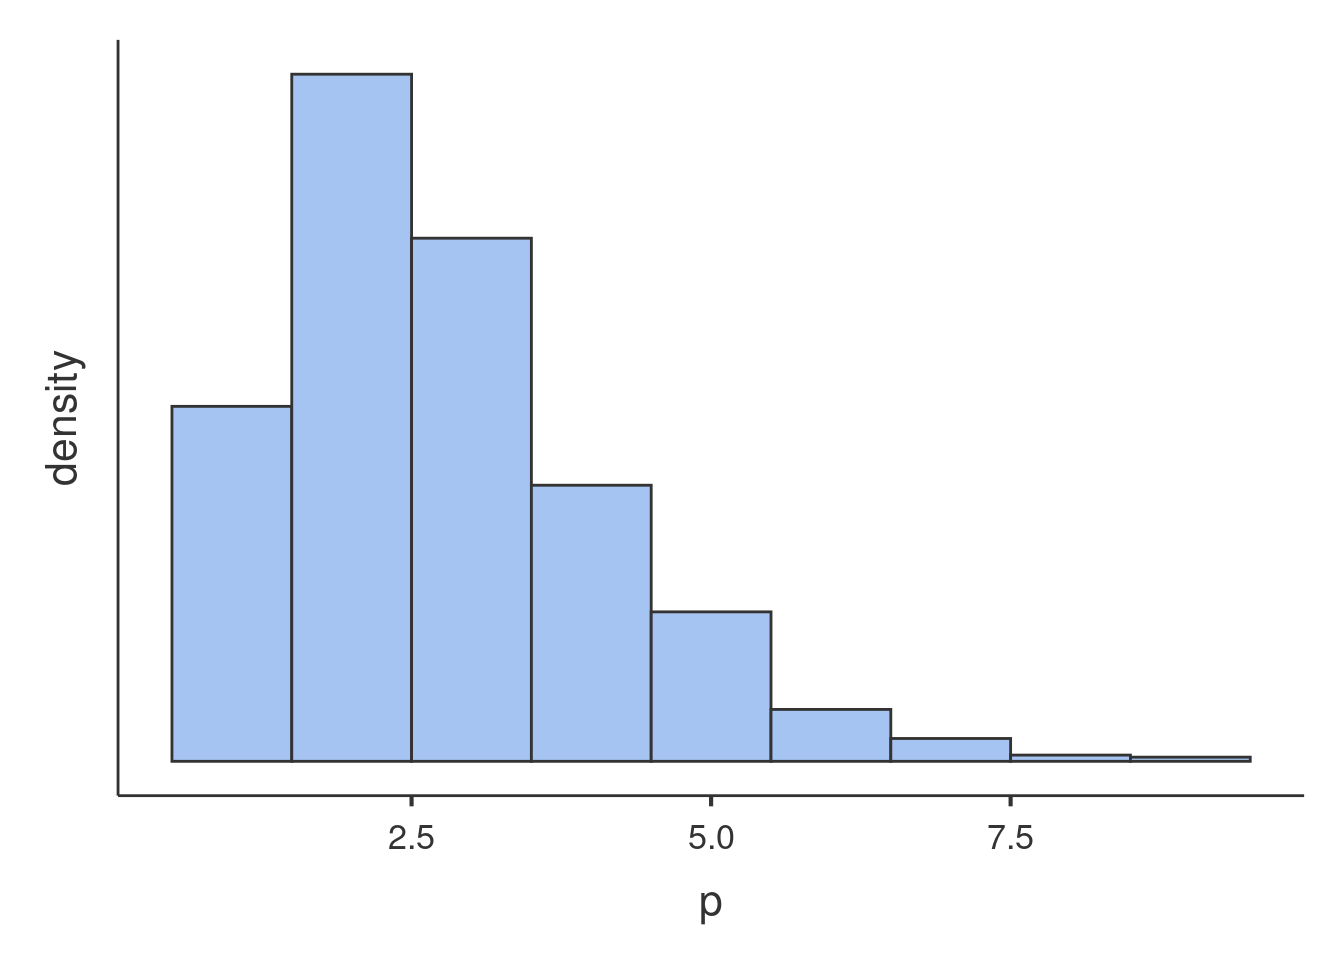
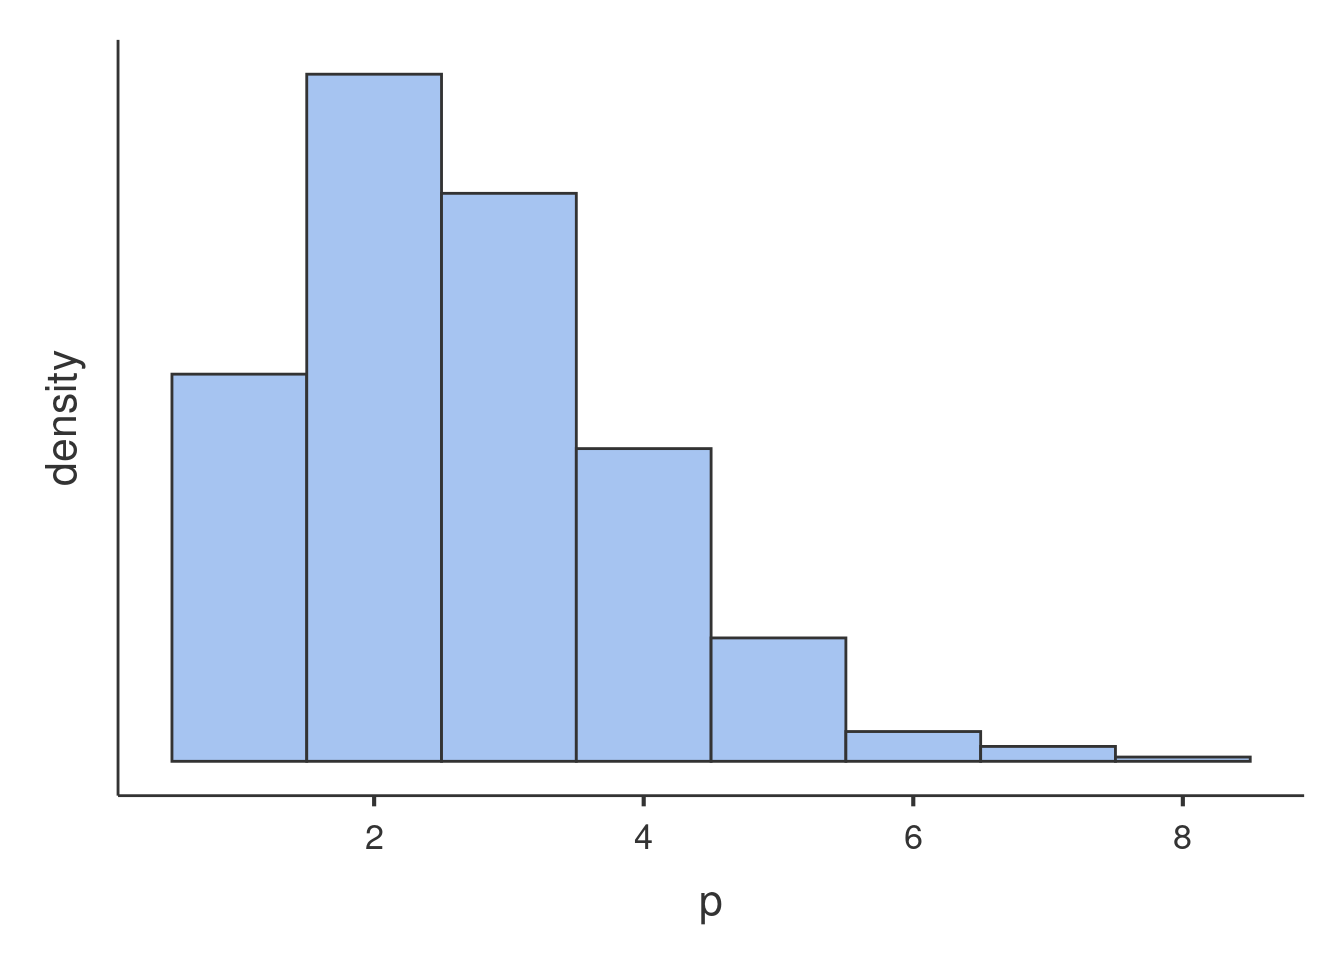
updates

diff --git a/docs/glmmixed_example2.html b/docs/glmmixed_example2.html
@@ -390,7 +390,7 @@ div.tocify {
 <p><img src="glmmixed_example2_files/figure-html/unnamed-chunk-2-1.png" width="672" /></p>
 <p>Glancing at the histogram makes it clear that the distribution is not normal, but it roughly resembles the Poisson distribution. Here is an example of Poisson distribution with equivalent mean.</p>
 <p><img src="glmmixed_example2_files/figure-html/unnamed-chunk-3-1.png" width="672" /></p>
-<p>We can see that the shape of our distribution is not qualitatively very different as compared with a theoretical Poisson distribution, so a Generalized Linear Model with Poisson distribition may work. However, we can check wheather our distribution is in line with the features of the Poisson dist by checking its mean and variance. The Poisson distribution has variance equal to the mean, in fact the simulated distribution in the histogram has <span class="math inline">\(\bar{x}=1.75\)</span> and <span class="math inline">\(s^2=1.923\)</span>. The <code>art</code> variable distribution has <span class="math inline">\(\bar{x}=1.693\)</span> and <span class="math inline">\(s^2=3.71\)</span>, with a ratio variance/mean of 2.191, which does not really qualify for Poisson dist. This looks like a case of <strong>overdispersion</strong>, <a href="http://bbolker.github.io/mixedmodels-misc/glmmFAQ.html#overdispersion">cf. here for details</a>. We will than consider a Negative Binomial model to account for possible overdispersion.</p>
+<p>We can see that the shape of our distribution is not qualitatively very different as compared with a theoretical Poisson distribution, so a Generalized Linear Model with Poisson distribition may work. However, we can check wheather our distribution is in line with the features of the Poisson dist by checking its mean and variance. The Poisson distribution has variance equal to the mean, in fact the simulated distribution in the histogram has <span class="math inline">\(\bar{x}=1.656\)</span> and <span class="math inline">\(s^2=1.601\)</span>. The <code>art</code> variable distribution has <span class="math inline">\(\bar{x}=1.693\)</span> and <span class="math inline">\(s^2=3.71\)</span>, with a ratio variance/mean of 2.191, which does not really qualify for Poisson dist. This looks like a case of <strong>overdispersion</strong>, <a href="http://bbolker.github.io/mixedmodels-misc/glmmFAQ.html#overdispersion">cf. here for details</a>. We will than consider a Negative Binomial model to account for possible overdispersion.</p>
 <p>An example of Negative Binomial distribution with equivalent mean and variance is here.</p>
 <p><img src="glmmixed_example2_files/figure-html/unnamed-chunk-4-1.png" width="672" /></p>
 <p>The second issue one needs to deal with is the structure of the data. We have seen that the students are not a random sample of students drawn independently one each other, but they are grouped by the program they are enrolled in. There are 83 programs, in each program there are on average 11 students. Because students in the same program may be more similar one each other than across programs, <code>programs</code> may cluster the scores of the dependent variable and create dependency in the data. To take dependency into the account, we will use a random intercepts model estimated with a Generalized Mixed Model.</p>

diff --git a/docs/gzlmmixed.html b/docs/gzlmmixed.html
@@ -507,7 +507,7 @@ div.tocify {
 <div id="options" class="section level1">
 <h1>Options</h1>
 <p><img src="gzlmmixed/options.png" class="img-responsive" alt=""></p>
-<p>The <span class="option">precision/speed</span> parameter applies to mixed models with one random effect. Higher numbers increase precision in the estimation with a speed cost. It corresponds to the <code>nAGQ</code> parameter of <code>glmer</code> command in R package <a href="https://cran.r-project.org/web/packages/lme4/index.html">lme4</a>. For models with more than</p>
+<p>The <span class="option">precision/speed</span> parameter applies to mixed models with one random effect. Higher numbers increase precision in the estimation with a speed cost. It corresponds to the <code>nAGQ</code> parameter of <code>glmer</code> command in R package <a href="https://cran.r-project.org/web/packages/lme4/index.html">lme4</a>.</p>
 <p>The <span class="option">CI method</span> decides which method is used for computing confidence intervals. <span class="option">Wald</span> uses Wald statistics and it is less precise than the other methods, but it is significantly faster. <span class="option">Profile</span> is more precise but slower. <span class="option">Boot</span>, bootstrap method, is the slowest. Details of the implementation can be found in <a href="https://cran.r-project.org/web/packages/lme4/lme4.pdf">lme4 manual</a></p>
 </div>
 <div id="examples" class="section level1">
